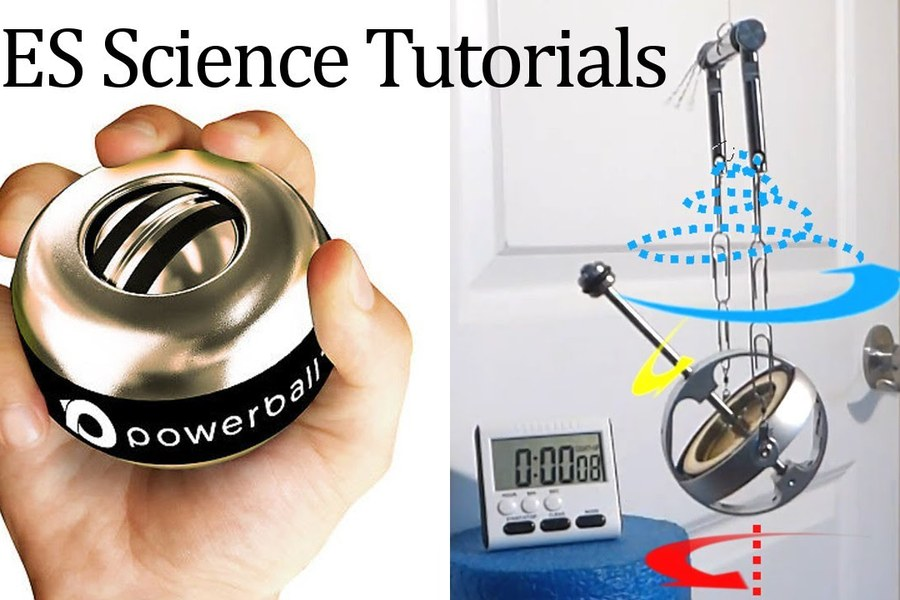
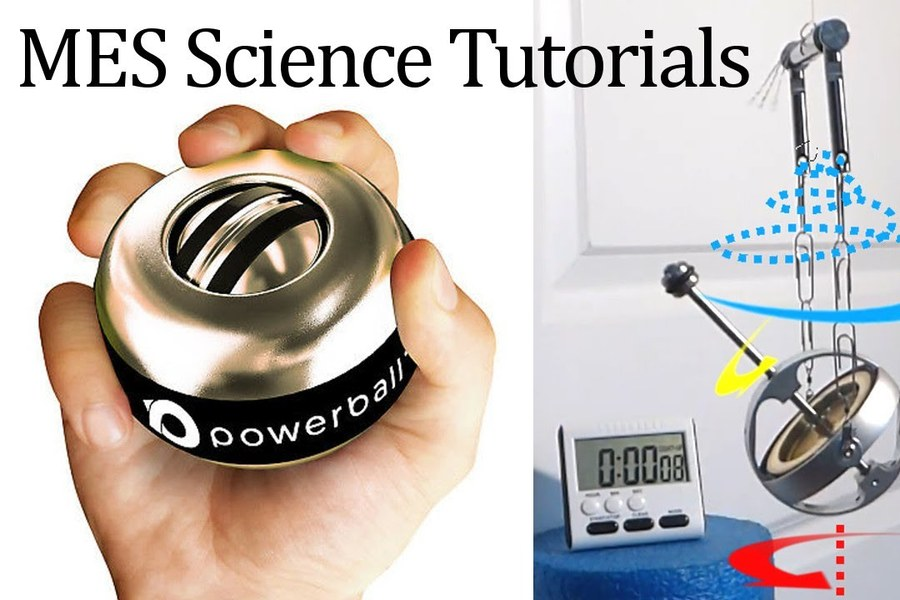
science: re-crop the Videos tile so the 'MES Science Tutorials' title isn't cut off
Crop is now the left 1080x720 of the 16:9 thumbnail (title spans x=20-900) instead of a centred 3:2 crop, and
iconVersion is bumped to 2 so browsers fetch the new image.

diff --git a/mes.fm/science/index.html b/mes.fm/science/index.html
@@ -1171,7 +1171,7 @@ body.is-stuck #header-controls { transform: none; bottom: auto; }
           <div class="wide">
 <div class="icon-grid">
 <a class="icon-grid__link icon-grid__link--labeled" href="/science-posts"><span class="icon-grid__thumb" style="background-image:url('/img/science-posts-icon.jpg?v=1')"></span><span class="icon-grid__label">Posts</span></a>
-<a class="icon-grid__link icon-grid__link--labeled" href="/science-videos"><span class="icon-grid__thumb" style="background-image:url('/img/science-videos-icon.jpg?v=1')"></span><span class="icon-grid__label">Videos</span></a>
+<a class="icon-grid__link icon-grid__link--labeled" href="/science-videos"><span class="icon-grid__thumb" style="background-image:url('/img/science-videos-icon.jpg?v=2')"></span><span class="icon-grid__label">Videos</span></a>
 </div>
 <div class="hub-links">
   <h2>Important Links</h2>
